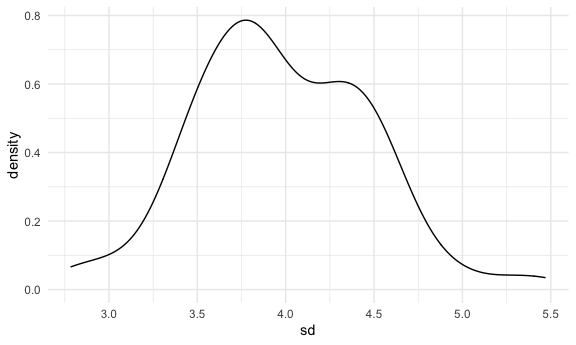
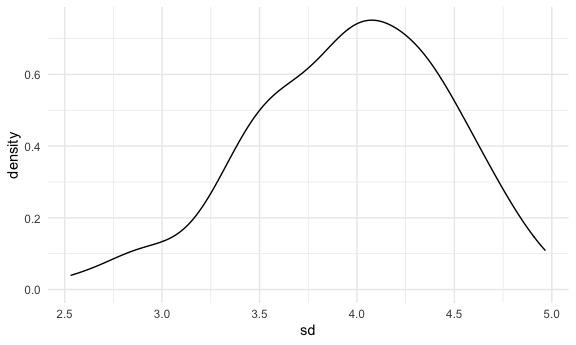
more simulations

diff --git a/simulation.md b/simulation.md
@@ -27,7 +27,7 @@ sim_mean_sd(30)
     ## # A tibble: 1 × 2
     ##    mean    sd
     ##   <dbl> <dbl>
-    ## 1  2.93  4.30
+    ## 1  3.33  3.70
 
 ## Simulate a lot
 
@@ -46,16 +46,16 @@ bind_rows(output)
     ## # A tibble: 100 × 2
     ##     mean    sd
     ##    <dbl> <dbl>
-    ##  1  3.99  2.94
-    ##  2  4.06  3.83
-    ##  3  4.07  2.63
-    ##  4  2.45  4.21
-    ##  5  2.48  3.18
-    ##  6  2.42  3.47
-    ##  7  3.19  4.27
-    ##  8  2.37  3.65
-    ##  9  2.28  4.20
-    ## 10  3.64  3.32
+    ##  1  3.53  3.18
+    ##  2  3.44  3.84
+    ##  3  3.45  3.53
+    ##  4  1.68  3.69
+    ##  5  3.95  4.22
+    ##  6  3.27  4.34
+    ##  7  2.05  4.05
+    ##  8  3.10  3.72
+    ##  9  3.55  4.11
+    ## 10  3.87  3.79
     ## # … with 90 more rows
 
 Use a loop function.
@@ -87,7 +87,7 @@ sim_results %>%
     ## # A tibble: 1 × 2
     ##   avg_samp_mean sd_sample_mean
     ##           <dbl>          <dbl>
-    ## 1          2.96          0.757
+    ## 1          2.98          0.756
 
 ``` r
 sim_results %>% 
@@ -96,3 +96,67 @@ sim_results %>%
 ```
 
 <img src="simulation_files/figure-gfm/unnamed-chunk-5-2.png" width="90%" />
+
+## Other sample sizes
+
+``` r
+n_list <- 
+  list(
+    "n = 30" = 30,
+    "n = 60" = 60,
+    "n = 120" = 120,
+    "n = 240" = 240
+)
+
+output <- vector("list", length = 4)
+
+output[[1]] <- rerun(100, sim_mean_sd(samp_size = n_list[[1]])) %>% bind_rows()
+output[[2]] <- rerun(100, sim_mean_sd(samp_size = n_list[[2]])) %>% bind_rows()
+
+for (i in 1:4) {
+  output[[i]] <- rerun(100, sim_mean_sd(samp_size = n_list[[i]])) %>% bind_rows()
+}
+```
+
+``` r
+sim_results <- 
+  tibble(
+    sample_size = c(30, 60, 120, 240)
+  ) %>% 
+    mutate(
+      output_lists = map(.x = sample_size, ~rerun(1000, sim_mean_sd(.x))),
+      estimate_df = map(output_lists, bind_rows)
+    ) %>% 
+    select(-output_lists) %>% 
+    unnest(estimate_df)
+```
+
+Do some data frame things.
+
+``` r
+sim_results %>% 
+  mutate(
+    sample_size = str_c("n = ", sample_size),
+    sample_size = fct_inorder(sample_size)
+  ) %>% 
+  ggplot(aes(x = sample_size, y = mean)) + 
+  geom_violin()
+```
+
+<img src="simulation_files/figure-gfm/unnamed-chunk-8-1.png" width="90%" />
+
+``` r
+sim_results %>% 
+  group_by(sample_size) %>% 
+  summarize(
+    avg_samp_mean = mean(mean),
+    sd_samp_mean = sd(mean))
+```
+
+    ## # A tibble: 4 × 3
+    ##   sample_size avg_samp_mean sd_samp_mean
+    ##         <dbl>         <dbl>        <dbl>
+    ## 1          30          3.00        0.703
+    ## 2          60          3.02        0.523
+    ## 3         120          3.00        0.377
+    ## 4         240          3.00        0.261
